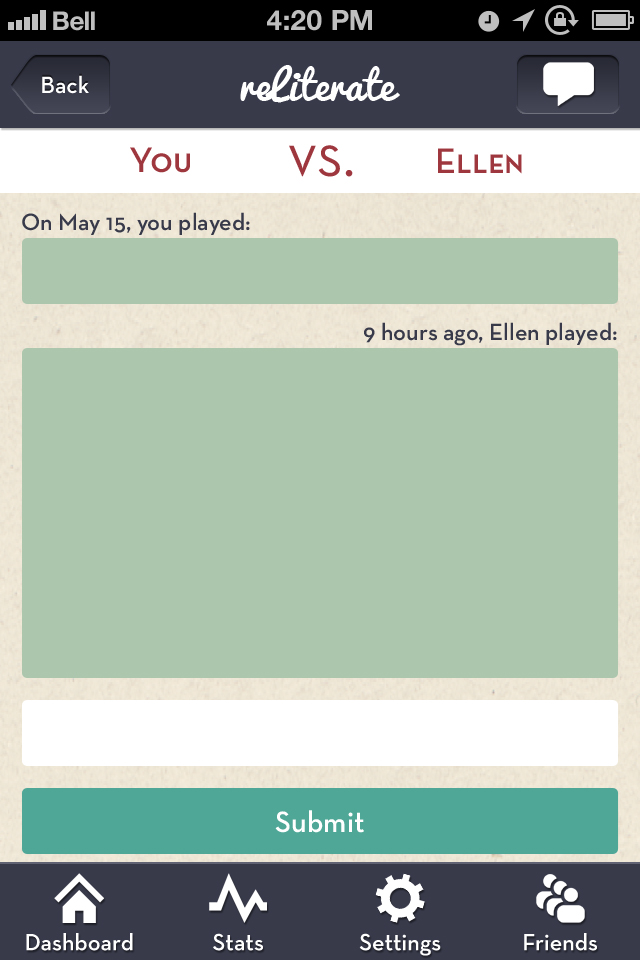
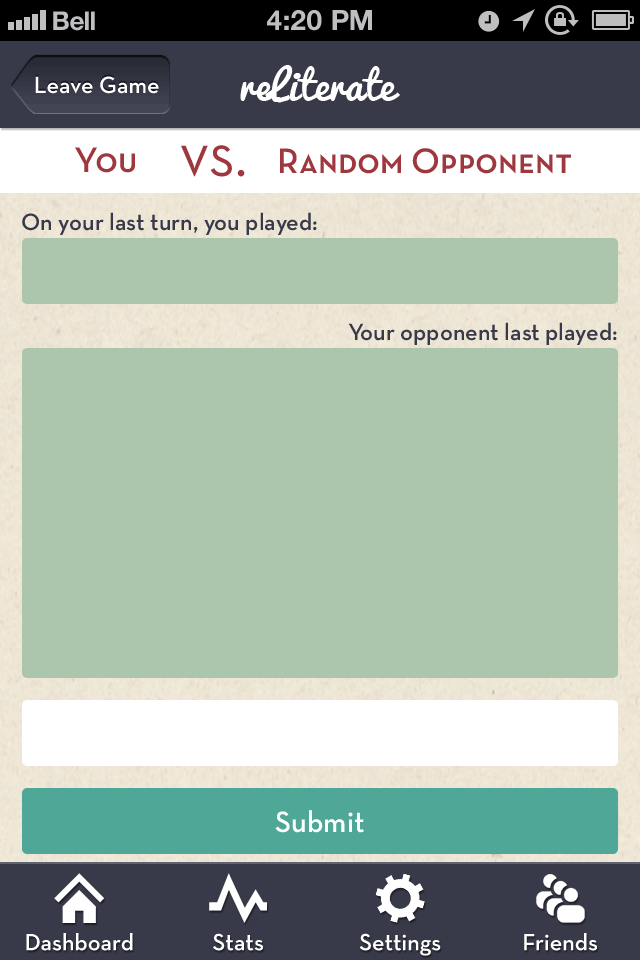
adds a way to clear games in progress, also now players can exit games

diff --git a/static/gameplay.js b/static/gameplay.js
@@ -8,6 +8,16 @@ $(function(){
 
   text_input.prop('disabled', true);
 
+  function leaveGame() {
+    $.getJSON('/leavegame', function(data) {
+      location.href = "/static/Dashboard.html";
+    });
+  }
+
+  $("#leavegame").click(function(){
+    leaveGame();
+  });
+
   function isMyTurn(data) {
     if( data.you == data.gamestate.players[data.gamestate.turn] ) 
       return true;
@@ -19,6 +29,13 @@ $(function(){
     $.getJSON('/gamestate', function(data) {
       console.log(data);
       
+      //your_word.html(data.you);
+      if(data.alert) {
+        alert(data.alert);
+        leaveGame();  
+      }
+
+
       if(isMyTurn(data)) {
         if(!input_touched)
           text_input.val("your turn");

diff --git a/static/Gameplay.html b/static/Gameplay.html
@@ -22,6 +22,7 @@
 <body>
 <div id="main_container">
 
+
 <div id="u0" class="u0_container"   >
 <div id="u0_img" class="u0_normal detectCanvas"></div>
 <div id="u1" class="u1" style="visibility:hidden;"  >
@@ -74,5 +75,6 @@
 </DIV>
 </DIV>
 </div>
+<div id="leavegame" style="position:absolute;left:20px; top:10px; height: 68; width:150px;"></div>
 <div class="preload"><img src="Gameplay_files/u0_normal.png" width="1" height="1"/><img src="Gameplay_files/u93_normal.png" width="1" height="1"/><img src="Gameplay_files/u107_normal.png" width="1" height="1"/><img src="Gameplay_files/u109_normal.png" width="1" height="1"/></div>
 </body>

diff --git a/app.py b/app.py
@@ -1,14 +1,16 @@
 import uuid
+import os
+import json
 from random import randrange
 from flask import Flask, session, request, redirect, url_for
 import json
 app = Flask(__name__)
 
-
+alerts = {}
 games = []
 
 
-class Game:
+class Game(json.JSONEncoder):
   MAX_PLAYERS = 2
   def __init__(self):
     self.players = []
@@ -17,6 +19,10 @@ class Game:
     self.ended = False
     self.winner = None
     self.moves = []
+  def opponent(self, player_id):
+    if self.players[0] == player_id:
+      return self.players[1]
+    return self.players[0]
   def addPlayer(self, player_id):
     self.players.append(player_id)
     if len(self.players) == Game.MAX_PLAYERS:
@@ -27,6 +33,8 @@ class Game:
   def setWinner(self, player_id):
     self.ended = True
     self.winner = player_id
+  def __repr__(self):
+    return json.dumps(self.__dict__)
 
 
 def getGame(player_id):
@@ -50,12 +58,53 @@ def getGame(player_id):
   return game
 
 
+@app.route("/debug")
+def debug():
+  result = ""
+  for game in games:
+    result += str(game)
+  return result
+
+@app.route("/clear")
+def clear_games():
+  global games
+  games = []
+  app.secret_key = os.urandom(32)
+  return "games cleared";
+
+@app.route("/leavegame")
+def leave_game():
+  global games
+  '''
+  game = getGame(session['player_id'])
+  game.players.remove(session['player_id'])
+  print "Now there are %d players in the game." % (len(game.players))
+  game.moves = []
+  session['player_id'] = str(uuid.uuid1())
+  if game.players:
+    alerts[game.players[0]] = "Your opponent left the game."
+  '''
+  
+  try:
+    game = getGame(session['player_id'])
+    alerts[game.opponent(session['player_id'])] = "Your opponent left the game."
+    games.remove(game)  
+  except:
+    pass
+  return ""
+
 @app.route("/gamestate")
 def gamestate():
   if not 'player_id' in session:
     session['player_id'] = str(uuid.uuid1())
   game = getGame(session['player_id'])
-  result = { 'gamestate':game.__dict__, 'you':session['player_id'] }
+
+  alert = None
+  if session['player_id'] in alerts:
+    alert = alerts[session['player_id']]
+    del alerts[session['player_id']]
+  
+  result = { 'gamestate':game.__dict__, 'you':session['player_id'], 'alert':alert }
 
   return json.dumps(result)
 
@@ -81,8 +130,8 @@ def move():
 
 
 
-
-app.secret_key = 'A0Zr98j/3yX R~XHH!jmN]LWX/,?RT'
+app.secret_key = os.urandom(32)
+#app.secret_key = 'A0Zr98j/3yX R~XHH!jmN]LWX/,?RT'
 
 if __name__ == "__main__":
     app.run(host='0.0.0.0', debug=True)
